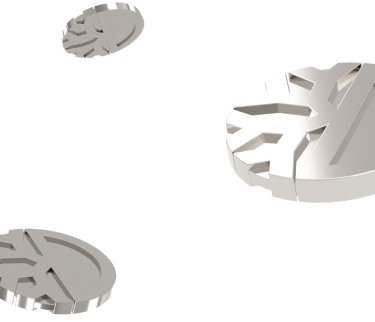
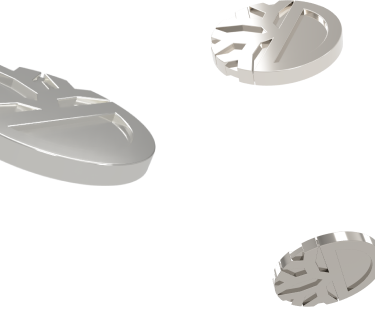
updated ui style and create wallet success image

diff --git a/mobile-app/app/screens/WalletNavigator/screens/CreateWallet/WalletCreateRestoreSuccess.tsx b/mobile-app/app/screens/WalletNavigator/screens/CreateWallet/WalletCreateRestoreSuccess.tsx
@@ -13,7 +13,7 @@ import { useThemeContext } from '@shared-contexts/ThemeProvider'
 type Props = StackScreenProps<WalletParamList, 'WalletCreateRestoreSuccess'>
 
 export function WalletCreateRestoreSuccess ({ route }: Props): JSX.Element {
-  const { isWalletRestored } = route.params ?? { isWalletRestored: false }
+  const isWalletRestored = route.params?.isWalletRestored
   const { isLight } = useThemeContext()
 
   // Needs for it to work on web. Otherwise, it takes full window size
@@ -37,20 +37,20 @@ export function WalletCreateRestoreSuccess ({ route }: Props): JSX.Element {
           {translate('screens/VerifyMnemonicWallet', 'Access decentralized finance with Bitcoin-grade security, strength and immutability.')}
         </ThemedTextV2>
       </View>
-      <View style={tailwind('mt-20')}>
+      <View style={tailwind('mt-28')}>
         <ImageBackground
-          imageStyle={tailwind('top-44')}
+          imageStyle={tailwind('top-36 mt-3')}
           style={tailwind('relative')}
           source={isLight ? GridBackgroundLight : GridBackgroundDark}
           resizeMode='cover'
         >
           <Image
             source={CoinImage}
-            style={{ width: width, height: 322 }}
+            style={{ width: width, height: 332 }}
           />
           <View style={tailwind('px-12')}>
             <ButtonV2
-              styleProps='mt-14'
+              styleProps='mt-9'
               testID='continue_button'
               label={translate('screens/Onboarding', 'Continue')}
             />
